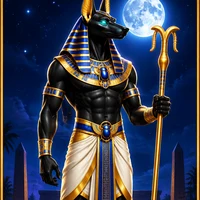
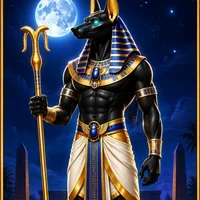
Anubis fest gespiegelt (schaut immer zur Tafel), kein Umdrehen mehr, nur Laser

diff --git a/public/index.html b/public/index.html
@@ -1659,7 +1659,7 @@ body.halloween .sr-cap{color:#fff}body.halloween .sr-cap small{color:#FFB547}
 .an-pop{position:absolute;inset:0;z-index:25;display:grid;place-items:center;background:rgba(3,6,20,.55);cursor:pointer;animation:bwin .3s ease-out}.an-pop.out{animation:bwout .3s ease-in forwards}
 .an-parch{min-width:62%;max-width:86%;padding:18px 20px;border-radius:14px;text-align:center;color:#4A2E0A;background:linear-gradient(160deg,#F6E3B4,#E3C487 60%,#CFA968);box-shadow:0 12px 40px rgba(0,0,0,.6),inset 0 0 0 2px #B98A3A;display:flex;flex-direction:column;align-items:center;gap:8px}.an-parch img{width:70px;height:70px;border-radius:10px}.an-parch small{font:700 13px/1.3 Archivo}.an-big{font:400 32px/1 Anton,Impact,sans-serif;letter-spacing:.5px}.an-mid{font:400 24px/1.1 Anton,Impact,sans-serif}
 .an-beam{position:absolute;left:10%;top:14%;width:4px;height:52%;z-index:22;background:linear-gradient(180deg,#fff,#7CE8FF,transparent);box-shadow:0 0 18px #7CE8FF;transform-origin:top;animation:anbeam .8s ease-out forwards}@keyframes anbeam{0%{transform:scaleY(0);opacity:1}60%{transform:scaleY(1);opacity:1}100%{opacity:0}}
-.an-wild{transition:transform .45s ease}.an-wild.an-turn{transform:scaleX(-1);filter:drop-shadow(0 0 14px #7CE8FF) brightness(1.15)}
+.an-wild{transition:filter .3s ease}.an-wild.an-glow{filter:drop-shadow(0 0 14px #7CE8FF) brightness(1.2)}
 .an-laser{position:absolute;height:6px;margin-top:-3px;z-index:24;transform-origin:0 50%;border-radius:6px;pointer-events:none;background:linear-gradient(90deg,rgba(255,255,255,.95),#7CE8FF 30%,#3AA0FF 70%,rgba(255,255,255,.9));box-shadow:0 0 12px #7CE8FF,0 0 26px #3AA0FF;animation:anlaser .38s ease-out}
 @keyframes anlaser{0%{clip-path:inset(0 100% 0 0);opacity:.2}60%{clip-path:inset(0 0 0 0);opacity:1}100%{opacity:1}}
 .an-ti.zap{box-shadow:0 0 0 2px #fff,0 0 18px #7CE8FF!important;filter:brightness(1.8)}
@@ -1683,7 +1683,7 @@ body.halloween .sr-cap{color:#fff}body.halloween .sr-cap small{color:#FFB547}
 <div id="toast" role="status"></div>
 <script src="/socket.io/socket.io.js"></script>
 <script>
-const AVER = '139';
+const AVER = '140';
 const $ = (s, r = document) => r.querySelector(s);
 const esc = (s) => String(s).replace(/[&<>"']/g, (c) => ({ '&': '&amp;', '<': '&lt;', '>': '&gt;', '"': '&quot;', "'": '&#39;' }[c]));
 const app = $('#app');
@@ -3416,7 +3416,7 @@ function anPopup(html, ms) { // Pergament-Tafel über dem Automaten
 async function anBeam(lvlAfter, lvlBefore = 0) { // Anubis dreht sich zur Tafel und strahlt die Symbole mit einem Laser an
   const root = $('#tcRoot'), wilds = [...document.querySelectorAll('.an-wild')], src = wilds[wilds.length - 1], slots = [...document.querySelectorAll('#anTab .an-ti')];
   if (!root || !src || !slots.length) { sfx('anbeam'); await tcSleep(400); anSetTab(lvlAfter, true); return; }
-  src.classList.add('an-turn'); sfx('anexp'); await tcSleep(tc.turbo ? 200 : 550); // Kopf zur Tafel drehen
+  src.classList.add('an-glow'); await tcSleep(tc.turbo ? 120 : 300); // Anubis schaut schon zur Tafel (Bild gespiegelt), er leuchtet kurz auf
   const R = root.getBoundingClientRect(), sr = src.getBoundingClientRect();
   const sx = sr.left + sr.width * 0.5 - R.left, sy = sr.top + sr.height * 0.16 - R.top; // Augen des Anubis
   const targets = slots.slice(0, lvlAfter); // alle Plätze unter der neuen Stufe werden umgewandelt
@@ -3429,7 +3429,7 @@ async function anBeam(lvlAfter, lvlBefore = 0) { // Anubis dreht sich zur Tafel 
     targets[k].style.backgroundImage = `url('/an/s_${AN_TIERS[lvlAfter]}.webp?v=${AVER}')`; targets[k].classList.add('up');
     setTimeout(() => { b.remove(); targets[k].classList.remove('zap'); }, 260);
   }
-  await tcSleep(tc.turbo ? 150 : 350); anSetTab(lvlAfter, true); src.classList.remove('an-turn');
+  await tcSleep(tc.turbo ? 150 : 350); anSetTab(lvlAfter, true); src.classList.remove('an-glow');
 }
 async function anShowScat(grid, win) { if (!win) return; grid.forEach((col, c) => col.forEach((x, r) => { if (x === 'P') { const el = document.querySelectorAll(`#tcStrip${c} .tc-cell`)[r]; if (el) el.classList.add('hit', 'an-scat'); } })); tcSetMsg(`🚪 Grabtore: +${fmt(win)}`); sfx('anfs'); await tcSleep(tc.turbo ? 400 : 900); }
 async function anPlay(r, bet) { // ganze Runde abspielen: Grunddreh, dann ggf. Freispiele

diff --git a/HANDOVER.md b/HANDOVER.md
@@ -199,7 +199,7 @@ damit Karten jederzeit neu gerendert werden können.
 - Auge des Anubis (lib/anubis.js, Idee wie Merkurs Eye of Horus, Nacht-Ägypten-Grafik in public/an/): 5×3, 10 Linien, Anubis W dehnt sich auf die Walze aus (ersetzt alles außer Grabtor P). 3+ Grabtore zahlen 1×/10×/25× Einsatz und geben 12 Freispiele (fest, laut Original-Gewinntabelle). In Freispielen: jeder Anubis +1 Freispiel und NACH der Auswertung Tafel +1 Stufe (Lotus→Ankh→Skarabäus→Falke→Schakal→Auge). Freispiele werden serverseitig am Stück berechnet (r.fs.spins). Auszahlung ≈ 95,6 % (1,5 Mio.), Freispiele ≈ alle 149 Drehs, Ø 36×. Maschinen 5–6 (TC_MACHINES 6, machineGame), /api/casino/anubis, Testphase anubis_test (Standard AN), Admin-Test-Knopf „👁 Freispiele“. Oberfläche: anPlay/anSpin/anExpand/anBeam/anPopup, Tafel #anTab, Zähler #anFs, Klänge anspin/anstop/anexp/anfs/anextra/anbeam.
 - Freigabe neue Automaten: Admin „🚀 Neue Automaten freigeben“ → /api/admin/slotsrelease: Testphasen aus, Setting slots_live = 1, Update 14 (u14-automaten, requires: 'slots', newsVisible) sichtbar, Code AUTOMATEN (15.000 💎, 30 Tage) angelegt. Admin-Test-Knöpfe: „👁 Freispiele“ (Anubis), „🃏 Kappe“, „👑 Vollbild“ (nur Admin).
 - Level-Kurve prestige-abhängig (lib/progress.js need(lvl, p), capFor(p), levelInfo(xp, p)): bis Prestige 4 unverändert (15.225 XP bis Level 30), ab Prestige 5 steigend 400·1,12^(lvl−1)·(1+0,2·(p−5)) → Prestige 5: 85.830 XP (≈ 58 Matches), Meister: 188.860 XP. Alle CAP-Stellen nutzen capFor(prestige).
-- Auge des Anubis Tafel-Verbesserung: anBeam(lvlAfter, lvlBefore) dreht den ausgedehnten Anubis (.an-turn) und schießt einen Laser (.an-laser, aus echten Positionen berechnet) auf jeden umgewandelten Tafelplatz.
+- Auge des Anubis Tafel-Verbesserung: anBeam(lvlAfter, lvlBefore): Anubis-Bilder sind fest gespiegelt (schauen zur Tafel), er leuchtet kurz (.an-glow) und schießt einen Laser (.an-laser, aus echten Positionen berechnet) auf jeden umgewandelten Tafelplatz.
 - Casino-Reiter: gewählter Automat golden mit ▶ (vorher überdeckte ein !important-Hintergrund die Markierung).
 - Autoplay (alle Automaten): bei riskierbarem Gewinn Pause mit 5-s-Countdown (tcAutoAfter), Risiko → danach weiter (tcAutoResume), START nimmt an und dreht weiter, sonst nach 5 s annehmen.
 - Großgewinn-Banner tcBigWin ab 20× (Großer Gewinn), 50× (Riesengewinn), 100× (Mega-Gewinn), bei Triple Crown und Narrenkappe.
